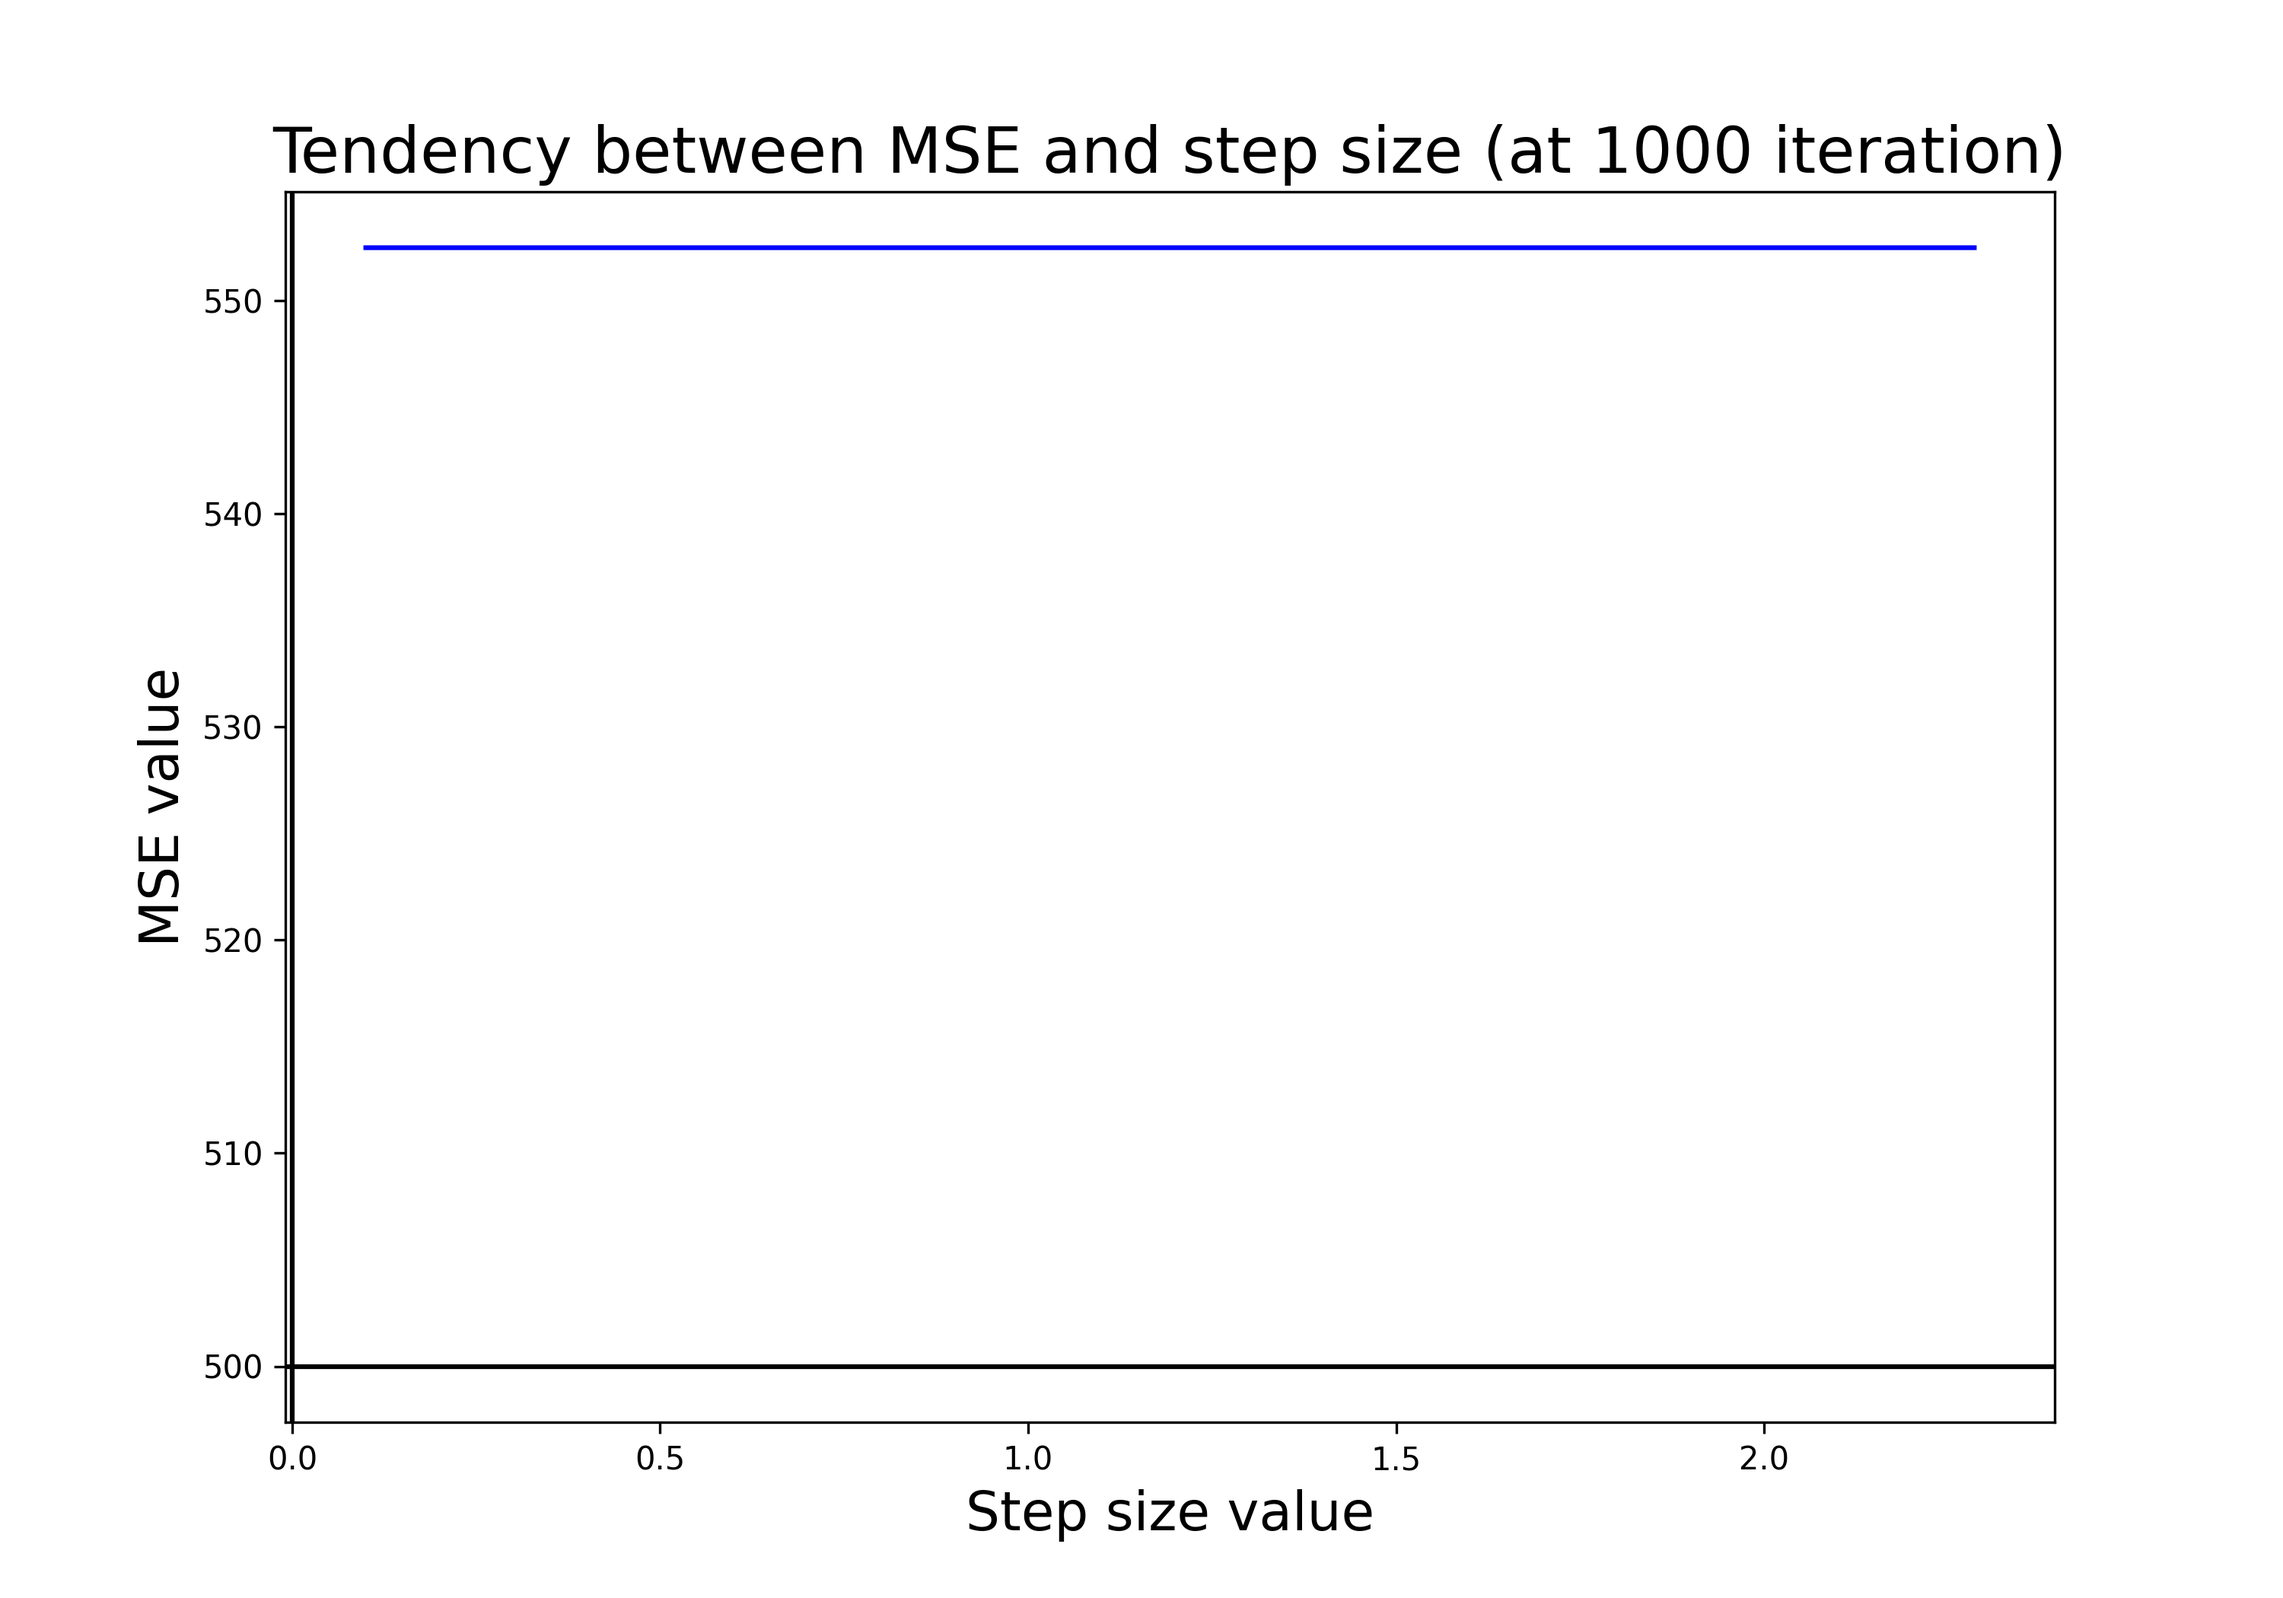
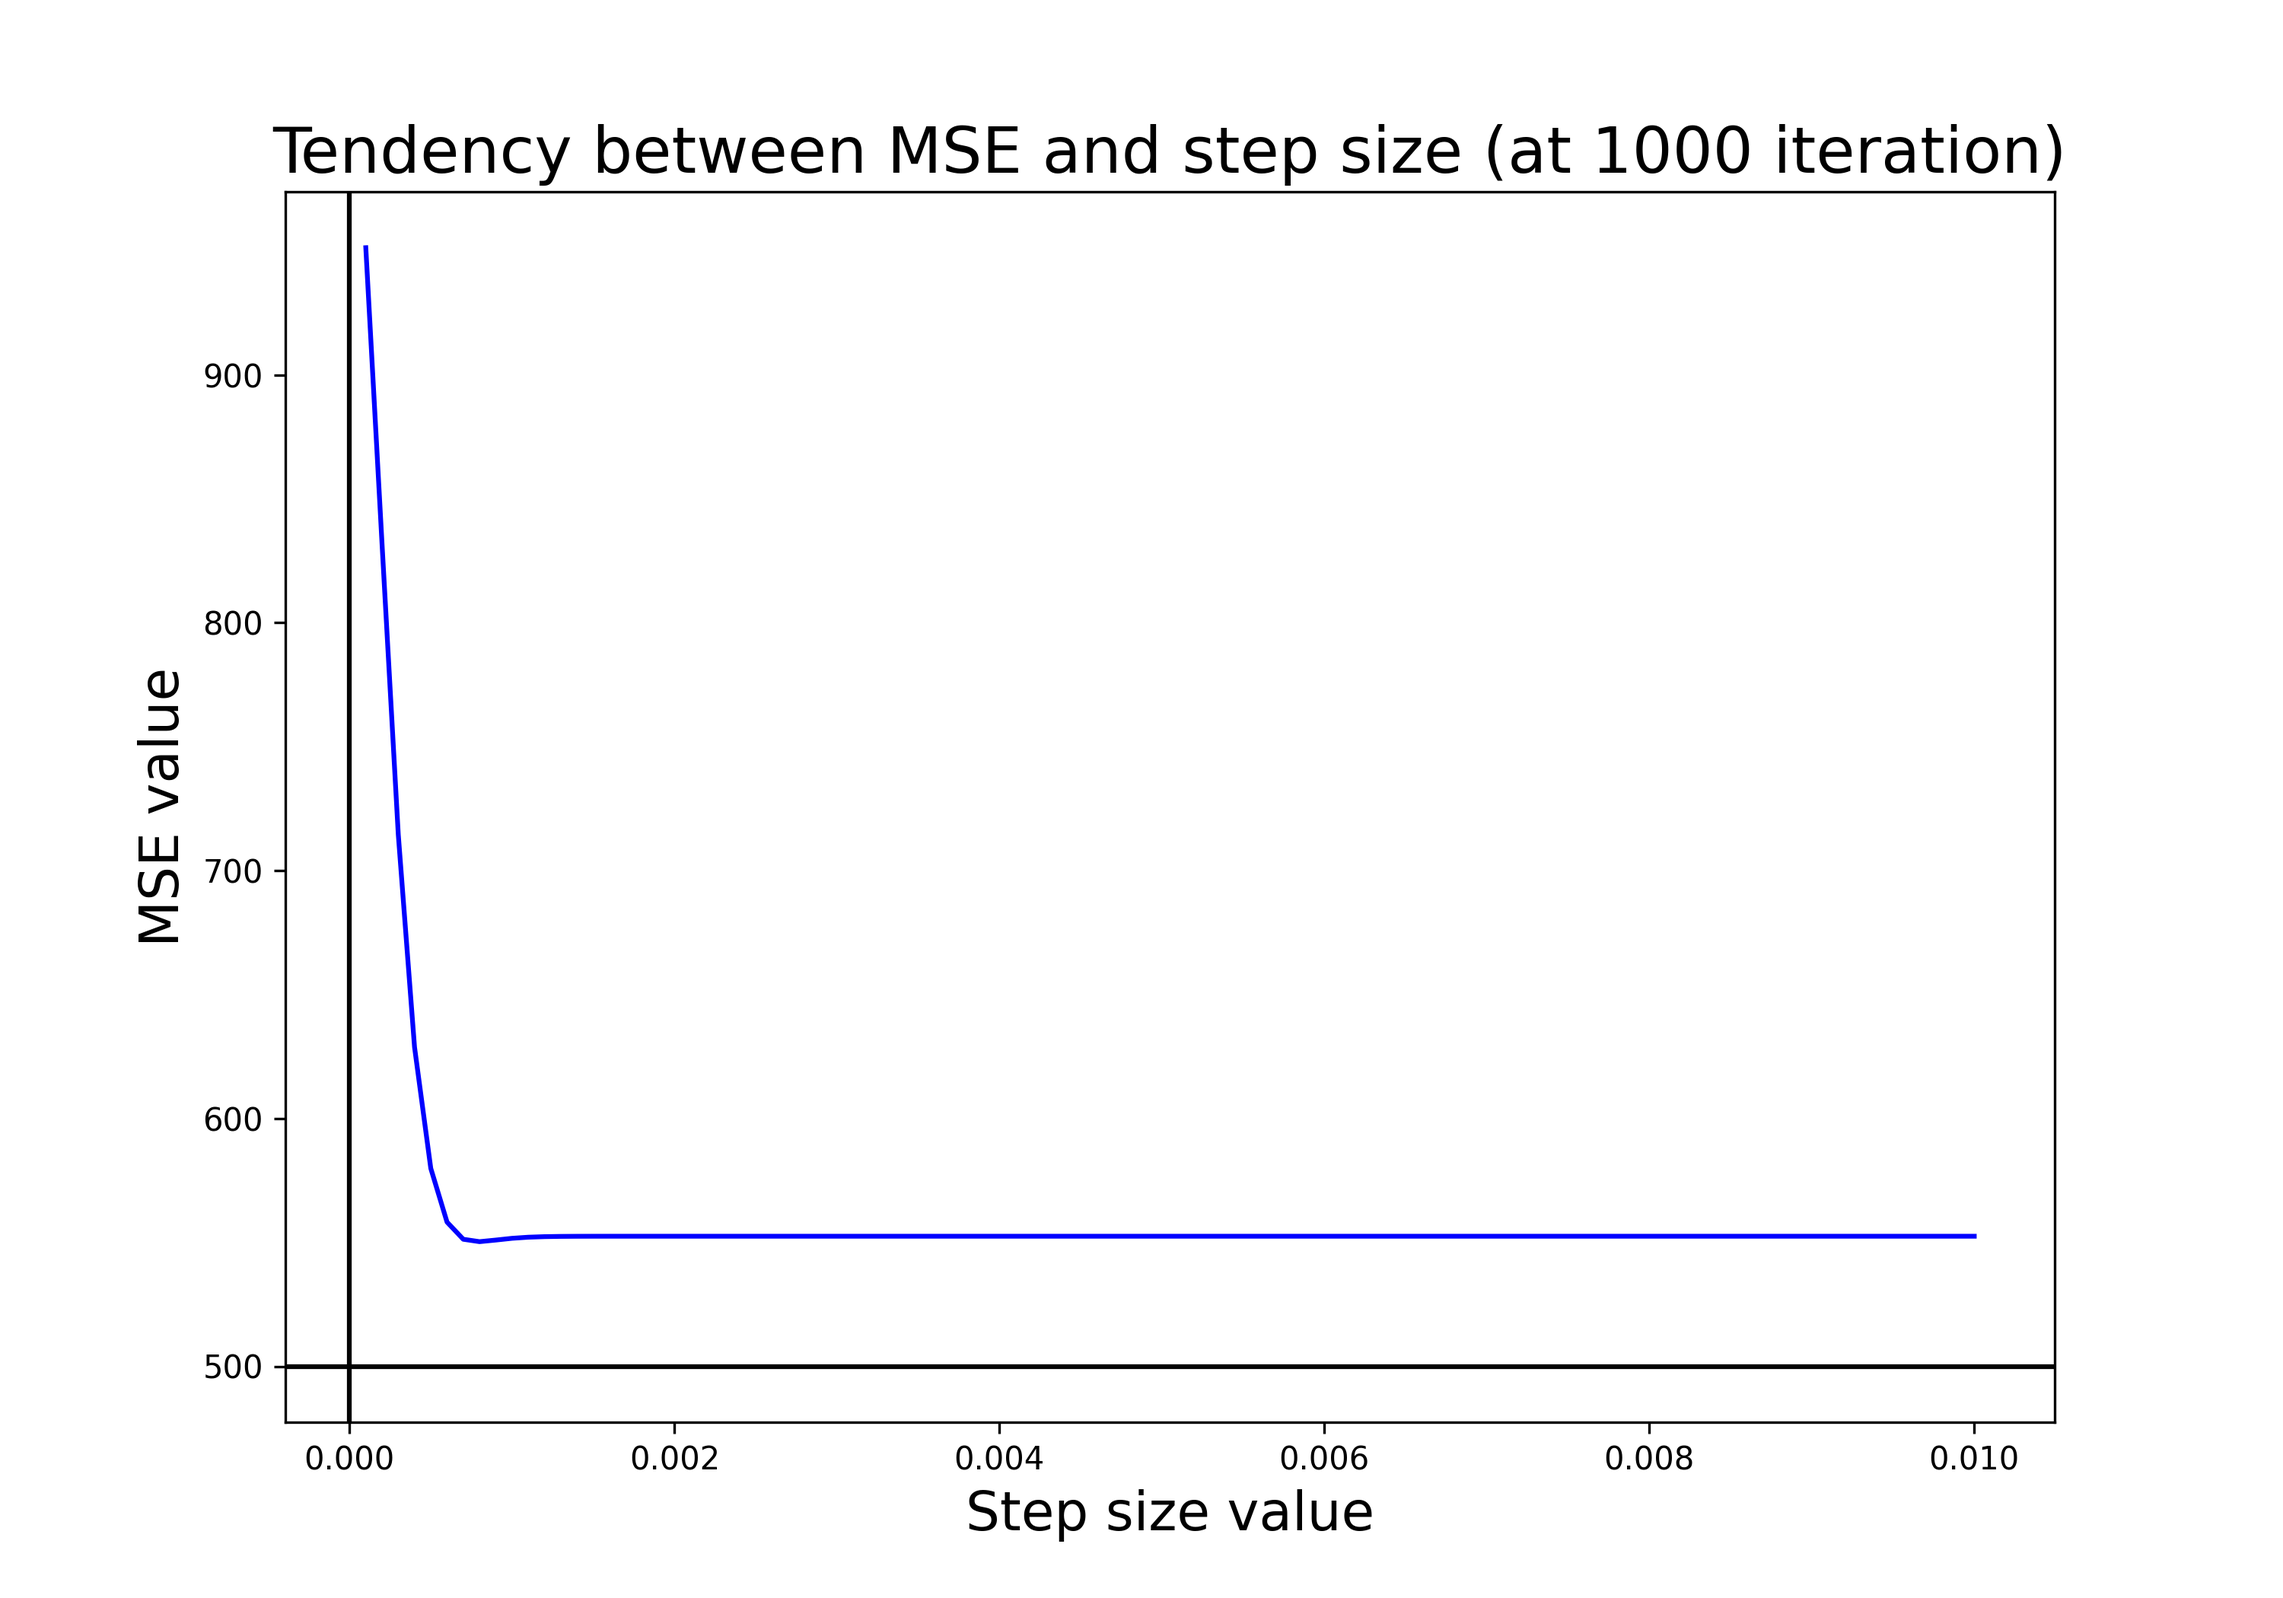
9/28

diff --git a/Analysis/Plotter.py b/Analysis/Plotter.py
@@ -66,7 +66,7 @@ psnr_val_2_small = nan_remove(np.load('/home/Computer_Vision_PA1/Analysis/psnr_v
 
 # problem 1 small value
 # plt.figure(figsize = (10, 7))
-# plt.plot(alpha_val_1_small[:20], mse_val_1_small[:20], color = 'blue')
+# plt.plot(alpha_val_1_small[:100], mse_val_1_small[:100], color = 'blue')
 # plt.title("Tendency between MSE and step size (at 1000 iteration)", fontsize = 20)
 # plt.axhline(500, color='black')
 # plt.axvline(0, color='black')
@@ -76,7 +76,7 @@ psnr_val_2_small = nan_remove(np.load('/home/Computer_Vision_PA1/Analysis/psnr_v
 # plt.savefig("Problem1_MSE.png", dpi=300)
 
 # plt.figure(figsize = (10, 7))
-# plt.plot(alpha_val_1_small[:20], psnr_val_1_small[:20], color = 'red')
+# plt.plot(alpha_val_1_small[:100], psnr_val_1_small[:100], color = 'red')
 # plt.title("Tendency between PSNR and step size (at 1000 iteration)", fontsize = 20)
 # plt.axhline(0, color='black')
 # plt.axvline(0, color='black')
@@ -86,22 +86,22 @@ psnr_val_2_small = nan_remove(np.load('/home/Computer_Vision_PA1/Analysis/psnr_v
 # plt.savefig("Problem1_PSNR.png", dpi=300)
 
 # Problem 2 small value
-plt.figure(figsize = (10, 7))
-plt.plot(alpha_val_2_small[:1000], mse_val_2_small[:1000], color = 'blue')
-plt.title("Tendency between MSE and step size using prior (at 1000 iteration)", fontsize = 20)
-plt.axhline(500, color='black')
-plt.axvline(0, color='black')
-plt.xlabel('Step size value', fontsize = 17)
-plt.ylabel('MSE value', fontsize = 17)
+# plt.figure(figsize = (10, 7))
+# plt.plot(alpha_val_2_small[:1000], mse_val_2_small[:1000], color = 'blue')
+# plt.title("Tendency between MSE and step size using prior (at 1000 iteration)", fontsize = 20)
+# plt.axhline(500, color='black')
+# plt.axvline(0, color='black')
+# plt.xlabel('Step size value', fontsize = 17)
+# plt.ylabel('MSE value', fontsize = 17)
 
-plt.savefig("Problem2_MSE.png", dpi=300)
+# plt.savefig("Problem2_MSE.png", dpi=300)
 
-plt.figure(figsize = (10, 7))
-plt.plot(alpha_val_2_small[:1000], psnr_val_2_small[:1000], color = 'red')
-plt.title("Tendency between PSNR and step size using prior (at 1000 iteration)", fontsize = 20)
-plt.axhline(0, color='black')
-plt.axvline(0, color='black')
-plt.xlabel('Step size value', fontsize = 17)
-plt.ylabel('PSNR value', fontsize = 17)
+# plt.figure(figsize = (10, 7))
+# plt.plot(alpha_val_2_small[:1000], psnr_val_2_small[:1000], color = 'red')
+# plt.title("Tendency between PSNR and step size using prior (at 1000 iteration)", fontsize = 20)
+# plt.axhline(0, color='black')
+# plt.axvline(0, color='black')
+# plt.xlabel('Step size value', fontsize = 17)
+# plt.ylabel('PSNR value', fontsize = 17)
 
-plt.savefig("Problem2_PSNR.png", dpi=300)
+# plt.savefig("Problem2_PSNR.png", dpi=300)

diff --git a/Analysis/iter_plotter.py b/Analysis/iter_plotter.py
@@ -16,41 +16,41 @@ iter_psnr_val_2 = nan_remove(np.load('/home/Computer_Vision_PA1/Analysis/iter_ps
 # Problem 1 plot
 plt.figure(figsize = (10, 7))
 plt.plot(iter_val_1[:1000], iter_mse_val_1[:1000], color = 'blue')
-plt.title("Tendency between MSE and step size using prior (at 1000 iteration)", fontsize = 20)
+plt.title("Tendency between MSE and iteration time (step size = 0.002)", fontsize = 20)
 plt.axhline(500, color='black')
 plt.axvline(0, color='black')
-plt.xlabel('Step size value', fontsize = 17)
+plt.xlabel('Iteration time', fontsize = 17)
 plt.ylabel('MSE value', fontsize = 17)
 
 plt.savefig("Problem1_ITER_MSE.png", dpi=300)
 
 plt.figure(figsize = (10, 7))
 plt.plot(iter_val_1[:1000], iter_psnr_val_1[:1000], color = 'red')
-plt.title("Tendency between PSNR and step size using prior (at 1000 iteration)", fontsize = 20)
+plt.title("Tendency between PSNR and iteration time (step size = 0.002)", fontsize = 20)
 plt.axhline(0, color='black')
 plt.axvline(0, color='black')
-plt.xlabel('Step size value', fontsize = 17)
+plt.xlabel('Iteration time', fontsize = 17)
 plt.ylabel('PSNR value', fontsize = 17)
 
 plt.savefig("Problem1_ITER_PSNR.png", dpi=300)
 
 # Problem 2 plot
-plt.figure(figsize = (10, 7))
+plt.figure(figsize = (12, 7))
 plt.plot(iter_val_2[:1000], iter_mse_val_2[:1000], color = 'blue')
-plt.title("Tendency between MSE and step size using prior (at 1000 iteration)", fontsize = 20)
+plt.title("Tendency between MSE and iteration time using prior (step size = 0.002)", fontsize = 20)
 plt.axhline(500, color='black')
 plt.axvline(0, color='black')
-plt.xlabel('Step size value', fontsize = 17)
+plt.xlabel('Iteration time', fontsize = 17)
 plt.ylabel('MSE value', fontsize = 17)
 
 plt.savefig("Problem2_ITER_MSE.png", dpi=300)
 
-plt.figure(figsize = (10, 7))
+plt.figure(figsize = (12, 7))
 plt.plot(iter_val_2[:1000], iter_psnr_val_2[:1000], color = 'red')
-plt.title("Tendency between PSNR and step size using prior (at 1000 iteration)", fontsize = 20)
+plt.title("Tendency between PSNR and iteration time using prior (step size = 0.002)", fontsize = 20)
 plt.axhline(0, color='black')
 plt.axvline(0, color='black')
-plt.xlabel('Step size value', fontsize = 17)
+plt.xlabel('Iteration time', fontsize = 17)
 plt.ylabel('PSNR value', fontsize = 17)
 
 plt.savefig("Problem2_ITER_PSNR.png", dpi=300)

diff --git a/addtional_method.py b/addtional_method.py
@@ -16,8 +16,8 @@ def MSE(image_gt, image_h, width, height):
     difference_square = np.sum(np.square(image_gt-image_h))
     return np.divide(difference_square, height*width)
 
-def PSNR(image_gt, mse):
-    r = np.amax(image_gt)
+def PSNR(mse):
+    r = 255
     return 10*np.log10(np.divide(r**2, mse))
 
 #---------------------------------------------------------------------------------#
@@ -67,23 +67,35 @@ S = np.around(-2 * np.log2(3/0.5))
 #---------------------------------------------------------------------------------#
 # One more additional method: Richardson-Lucy
 
-from numpy.fft import fftn, ifftn, fftshift 
+from scipy.ndimage import gaussian_filter
+from scipy.signal import convolve2d, fftconvolve
+from scipy import signal
+from tqdm import tqdm
 
-def richardson_lucy_np(image, psf, num_iters):
+def richardson_lucy_np(image, num_iters):
+    # image = image in 2d numpy array
+    # num_iters = number of iteration
     
-    otf = fftn(fftshift(psf))
-    otf_ = np.conjugate(otf)    #np.ones(image.shape)/image.sum()
-    estimate = image
+    # How to get PSF? 
+    # We will use blur kernel!: Gaussian filter
+    # We have to make all of it as furier transform
+    kernel = gaussian_filter(image, 1)
 
-    for i in range(num_iters):
-        #print(i)
-        
-        reblurred = ifftn(fftn(estimate) * otf)
-        ratio = image / (reblurred + 1e-30)
-        estimate = estimate * (ifftn(fftn(ratio) * otf_)).astype(float)
-        
+    reverse_kernel = np.flip(kernel)
 
-    return estimate
+    estimation = image
+    for i in tqdm(range(0, num_iters)):
+        # convolution = convolve2d(estimation, kernel, boundary='symm', mode='same')
+        convolution = fftconvolve(estimation, kernel, mode='same')
+        blur_relative = np.divide(image, convolution)
+        # estimate_error = convolve2d(blur_relative, reverse_kernel, boundary='symm', mode='same')
+        estimate_error = fftconvolve(blur_relative, reverse_kernel, mode='same')
+        estimation = np.multiply(estimation, estimate_error)
 
-img = richardson_lucy_np(I_gt, I_h, 1000)
-print(PSNR(I_gt, img))
+    return estimation
+
+result_is = richardson_lucy_np(I_h, 200)
+mse = MSE(I_gt, result_is, width, height)
+cv2.imwrite('/home/Computer_Vision_PA1/addtional.png', result_is)
+print(mse)
+print(PSNR(mse))
